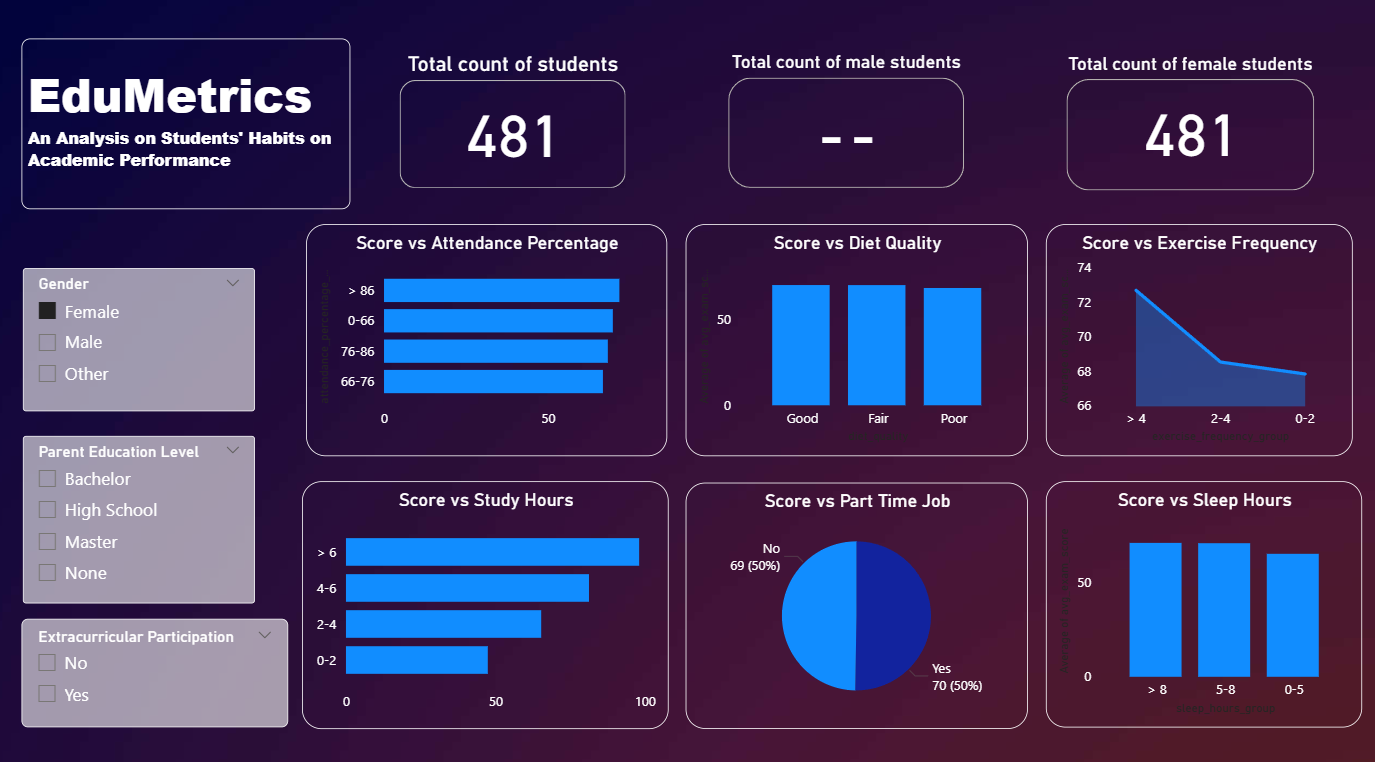
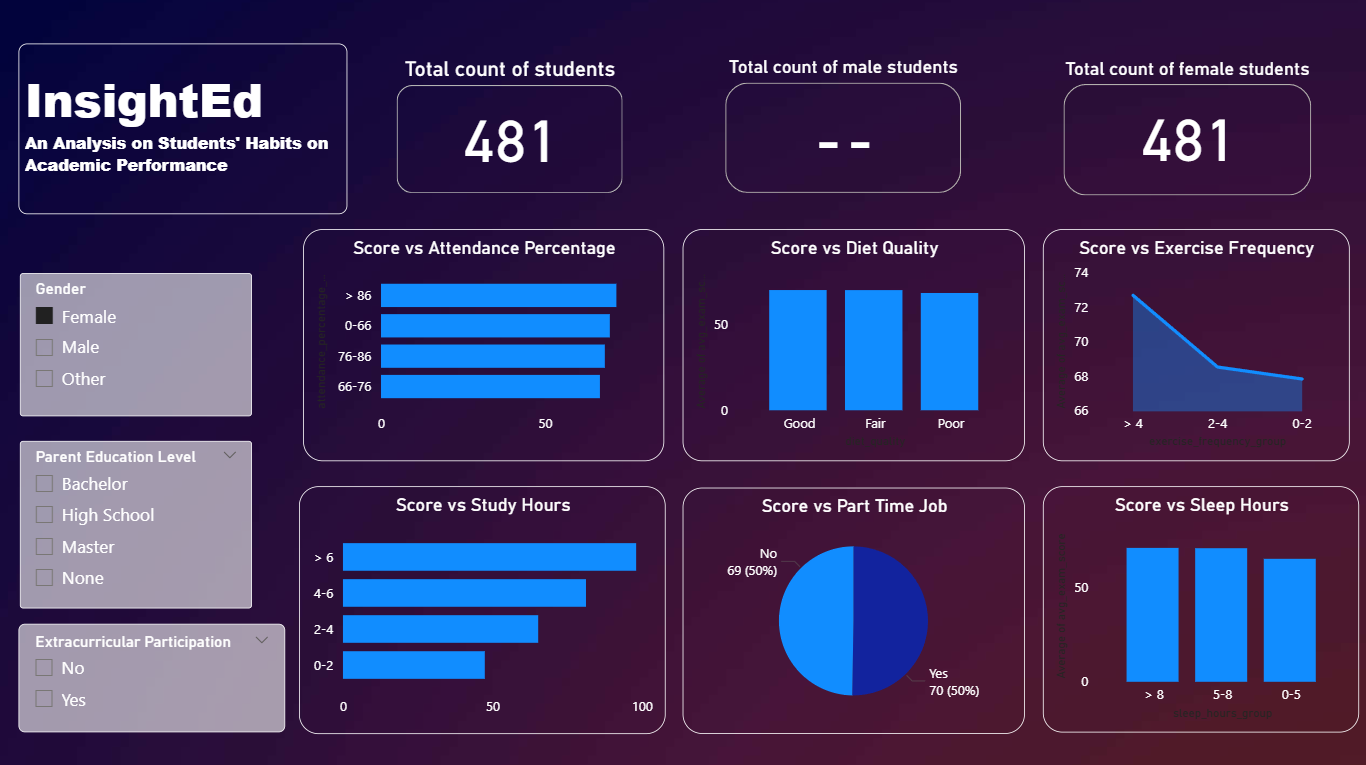
add new files

diff --git a/README.md b/README.md
@@ -1,6 +1,6 @@
-# 📊 eduMetrics: Student Performance Analytics Dashboard
+# 📊 InsightEd: Student Performance Analytics Dashboard
 
-**eduMetrics** is a complete end-to-end data analytics project that analyzes how students’ daily habits impact their academic performance. Using real-world data from **Kaggle**, the project applies structured **MySQL data cleaning**, thoughtful feature engineering, and interactive data visualization with **Microsoft Power BI** to derive actionable academic insights.
+**InsightEd** is a complete end-to-end data analytics project that analyzes how students’ daily habits impact their academic performance. Using real-world data from **Kaggle**, the project applies structured **MySQL data cleaning**, thoughtful feature engineering, and interactive data visualization with **Microsoft Power BI** to derive actionable academic insights.
 
 ---
 
